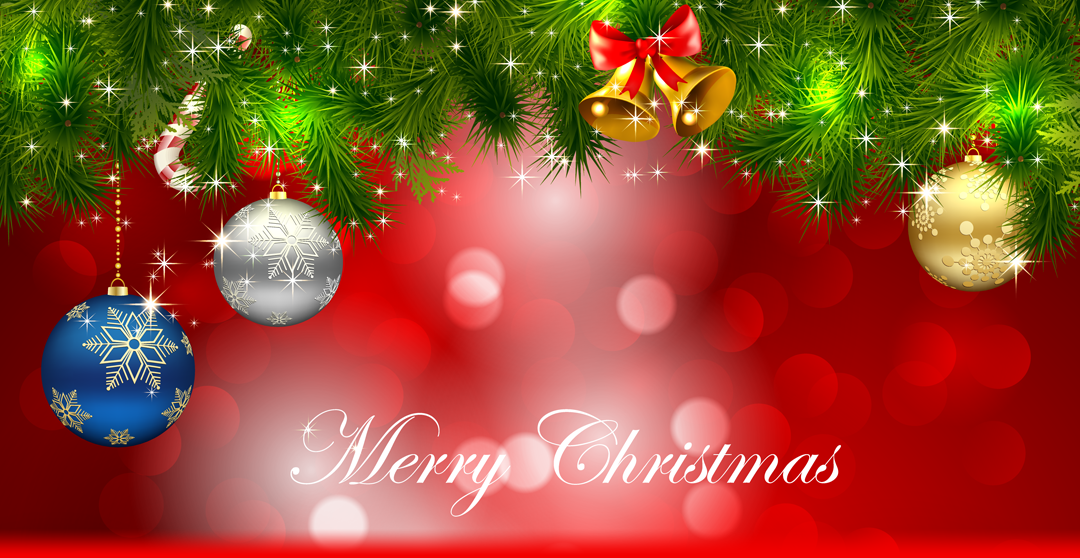
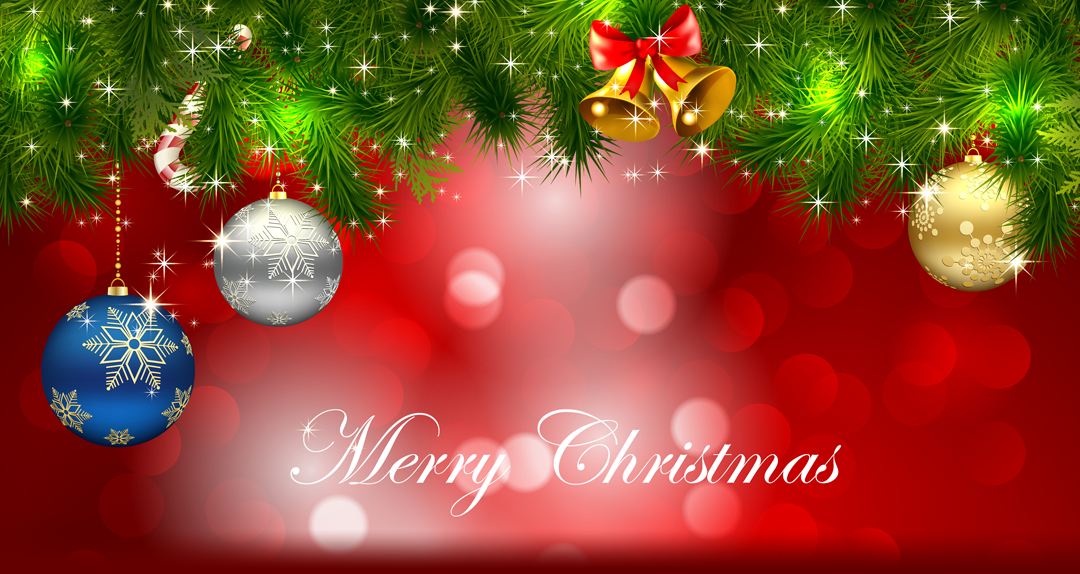
TEST

diff --git a/hello.php b/hello.php
@@ -4,9 +4,10 @@
     <style type="text/css">
     <!--
     body {
-      background-color: #F20000;
+      background-color: #650000;
       background-image: url('./img/bg_xmas_top.png');
       background-position: center top;
+      background-repeat: no-repeat;
       background-size: 100% auto;
     }
     //-->
